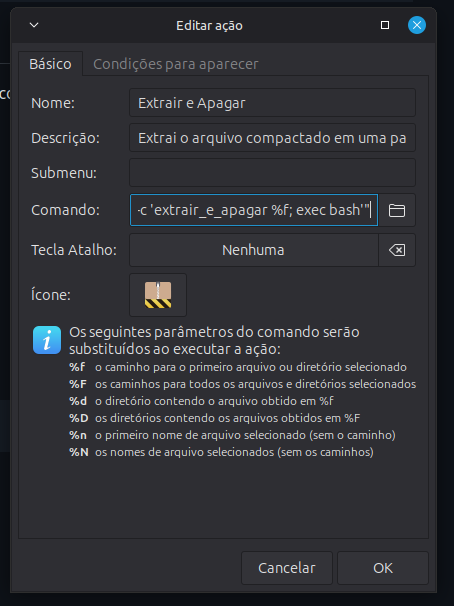
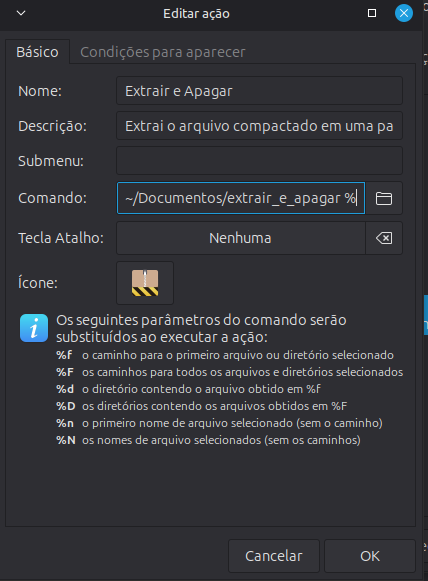
Atualizacão do README, Ajuste nas instruções de Integração com o Thunar

diff --git a/README.md b/README.md
@@ -22,14 +22,11 @@ Compatível com:
    chmod +x extrair_e_apagar.sh
    ```
 
-3. (Opcional) Mova o script para um diretório no seu PATH:
+3. Mova o script para um diretório da sua preferencia:
+    Ex: Documentos
+
    ```bash
-   sudo mv extrair_e_apagar.sh /usr/local/bin/extrair_e_apagar
-   ```
-   ou, se preferir manter no seu usuário:
-   ```bash
-   mkdir -p ~/.local/bin
-   mv extrair_e_apagar.sh ~/.local/bin/extrair_e_apagar
+   sudo mv extrair_e_apagar.sh ~/Documentos/extrair_e_apagar
    ```
 
 ## 🧩 Integração com o Thunar (XFCE)
@@ -50,9 +47,8 @@ Descrição: Extrai o arquivo em uma pasta e apaga o original
 Comando:
 
    ```bash
-    xfce4-terminal -e "bash -c 'extrair_e_apagar %f; exec bash'"
+   ~/Documentos/extrair_e_apagar %f
    ```
-   |Isso abre um terminal mostrando o progresso da extração.
 
 3⃣ Defina os tipos de arquivo
 
@@ -83,20 +79,6 @@ Clique com o botão direito em um arquivo .zip (ou outro compatível)
 
 Escolha Ações personalizadas → Extrair e apagar
 
-Um terminal abrirá mostrando o progresso; ao finalizar, o arquivo original será removido.
-
-
-🧠 Dica extra
-
-Se quiser, você pode mudar o comando para não abrir terminal (rodar silencioso):
-
-   ```bash
-    bash -c 'extrair_e_apagar %f'
-   ```
-Ou, se quiser uma notificação no fim:
-   ```bash
-    bash -c 'extrair_e_apagar %f && notify-send "Extração concluída"'
-   ```
 
 💬 Créditos
 
